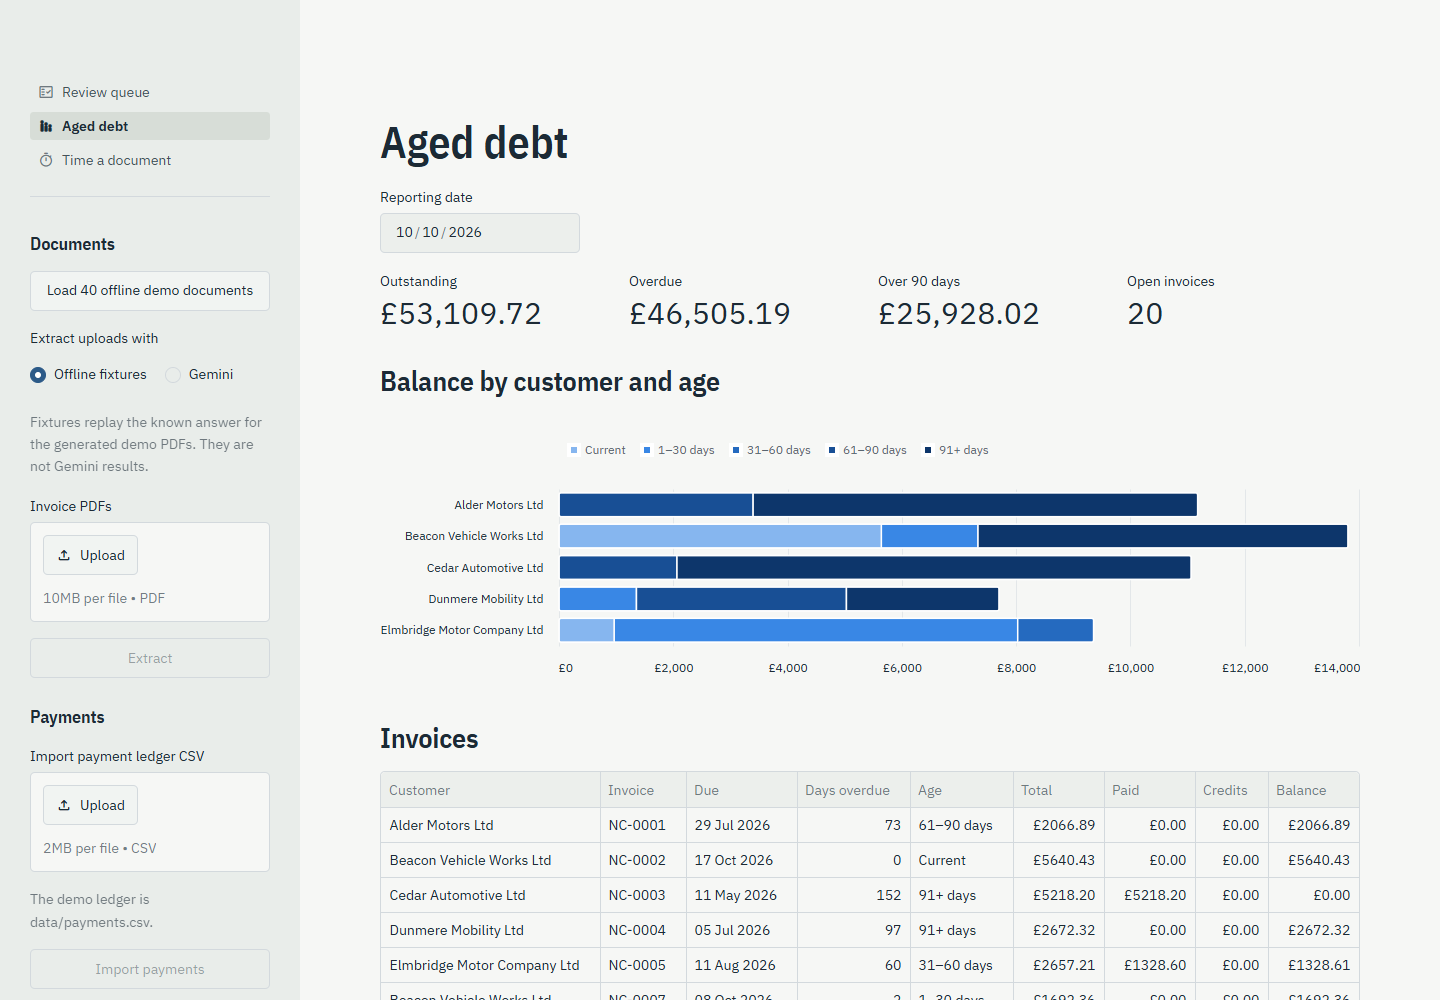
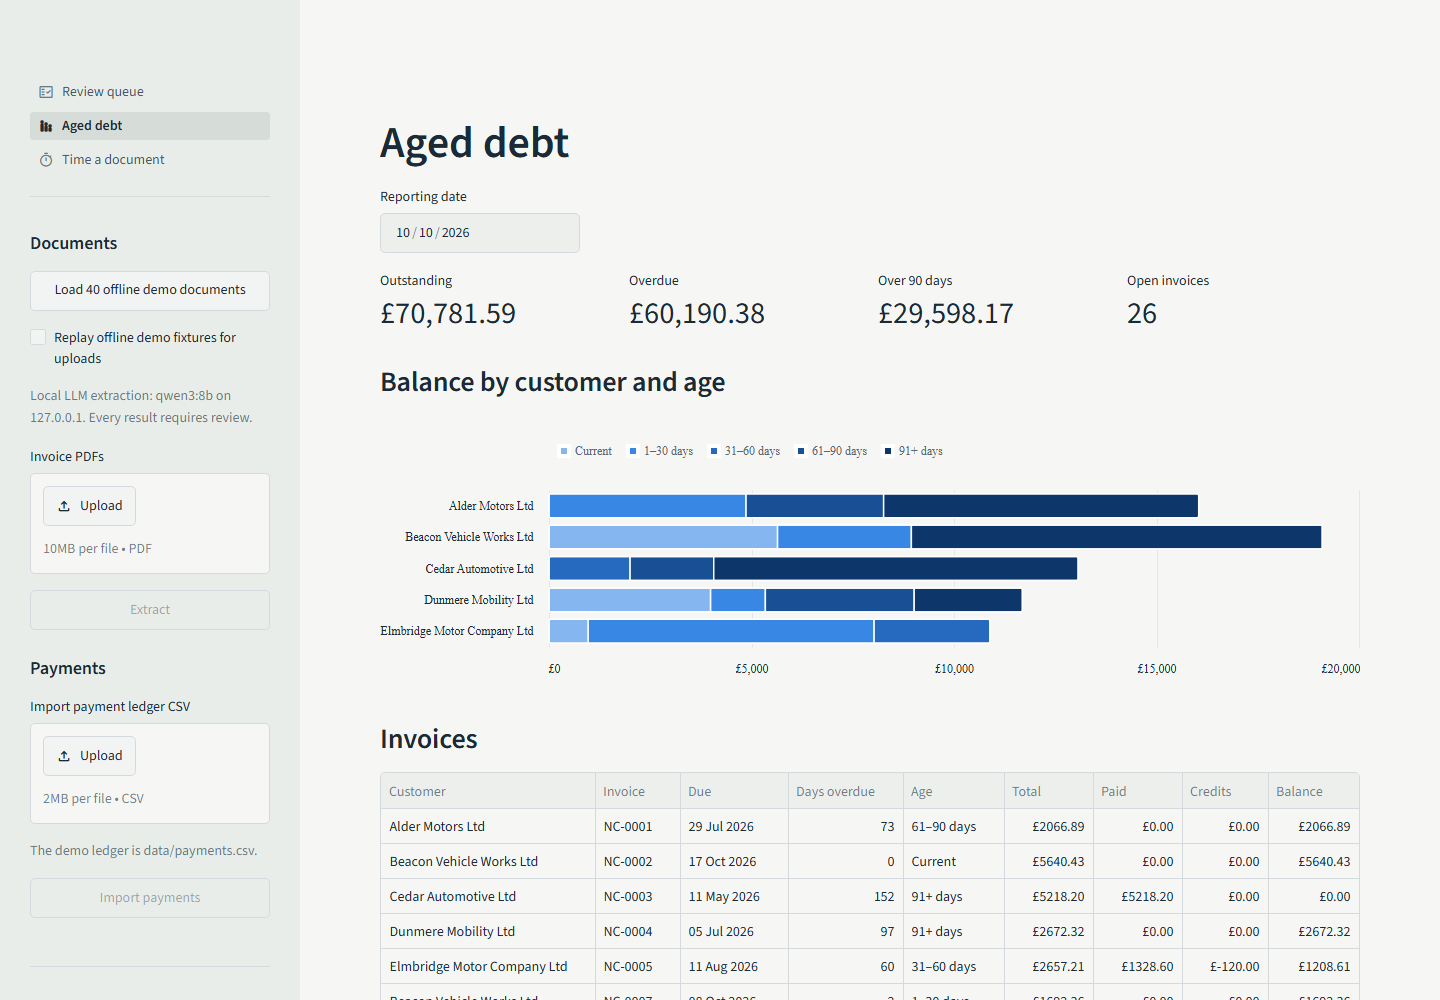
Rename the posted register download and refresh screenshots
The register is not read by any built flow, so the label no longer
mentions Power Automate. The old screenshots still showed the removed
Gemini option; the new ones come from a scratch copy of the app.

diff --git a/views/aged_debt.py b/views/aged_debt.py
@@ -106,7 +106,7 @@ st.caption(f'Workbooks are snapshots as at {reporting_date:%d %B %Y}.')
 left, right = st.columns(2)
 left.download_button('Aged debt workbook', lambda: workbook(records, debt, reporting_date, 'debt', payments),
                      f'ar_debt_{reporting_date.isoformat()}.xlsx', XLSX, width='stretch')
-right.download_button('Posted register for Power Automate',
+right.download_button('Posted receivables register',
                       lambda: workbook(records, debt, reporting_date, 'posted', payments),
                       f'ar_posted_{reporting_date.isoformat()}.xlsx', XLSX, width='stretch')
 with st.expander(f'Payment ledger ({len(payments)})'):

diff --git a/tests/test_app_regressions.py b/tests/test_app_regressions.py
@@ -89,7 +89,7 @@ def test_complete_demo_import_review_export(isolated_app, monkeypatch):
 
     app.switch_page('views/aged_debt.py').run()
     assert not app.exception
-    for label in ('Posted register for Power Automate', 'Aged debt workbook'):
+    for label in ('Posted receivables register', 'Aged debt workbook'):
         with zipfile.ZipFile(io.BytesIO(captured[label])) as book:
             assert book.testzip() is None
             table = ET.fromstring(book.read('xl/tables/table1.xml'))

diff --git a/ar_copilot/export.py b/ar_copilot/export.py
@@ -1,4 +1,4 @@
-"""Excel exports: an aged-debt workbook for people and a flat document register for flows.
+"""Excel exports: an aged-debt workbook for people and a flat register of posted documents.
 
 Table values are Decimal snapshots computed in Python. The Summary sheet adds SUMIF
 formulas over the AgedDebt table so every total can be traced back to its rows, and
